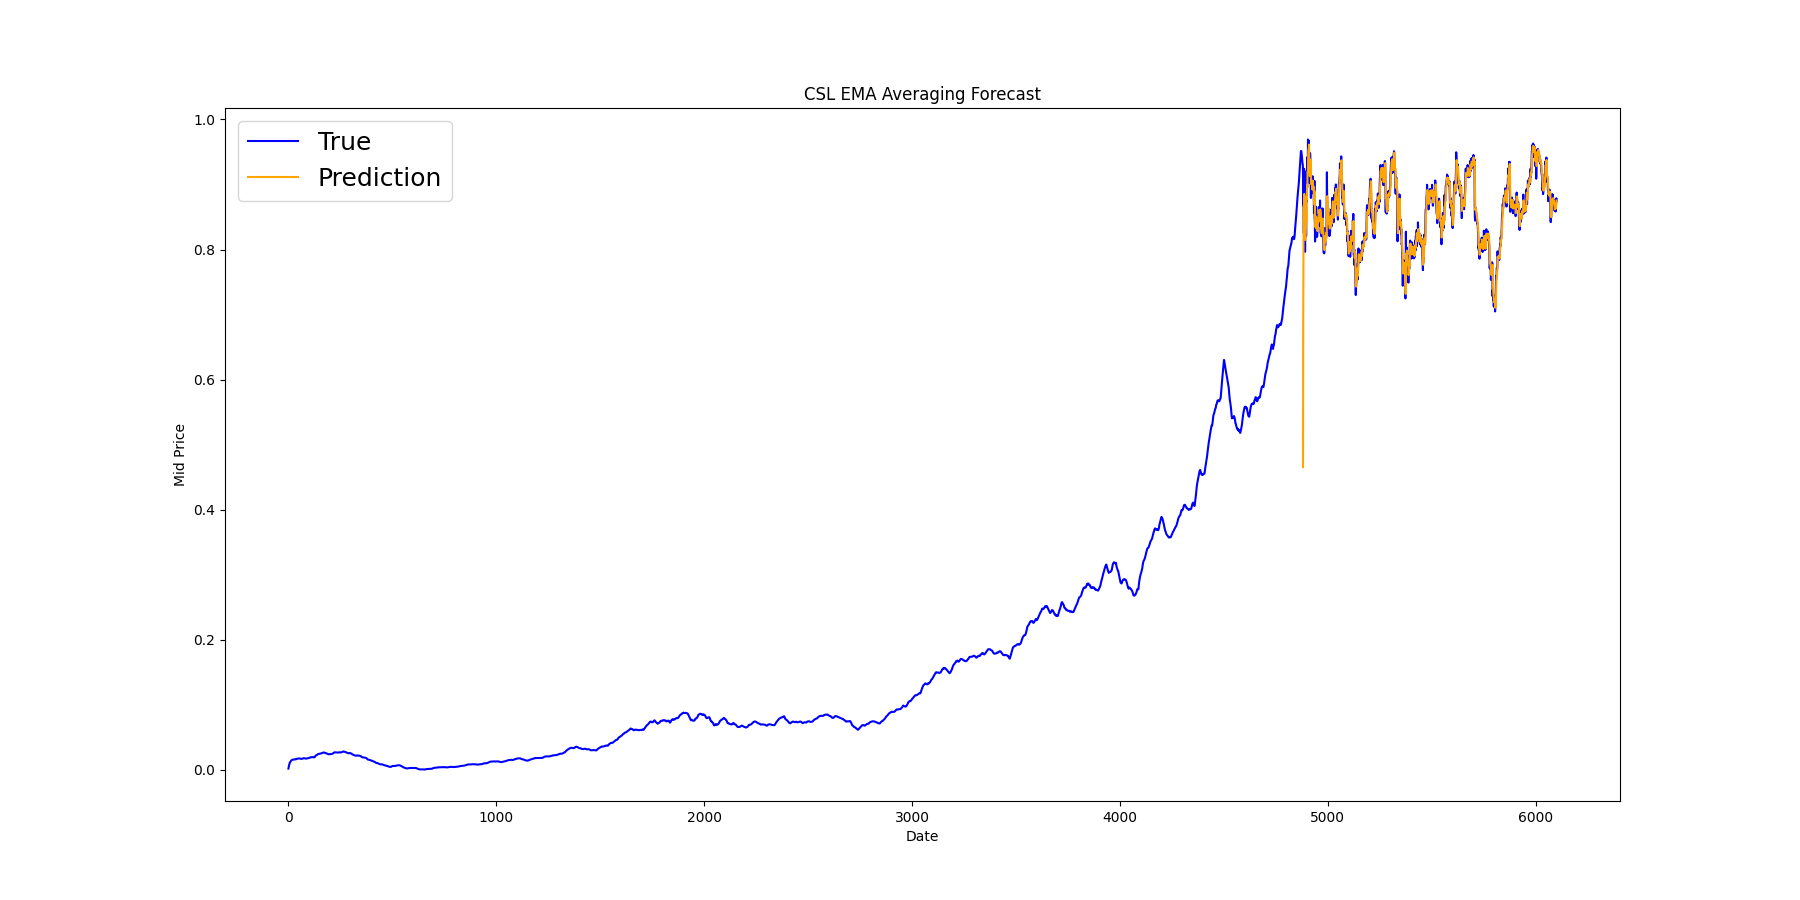
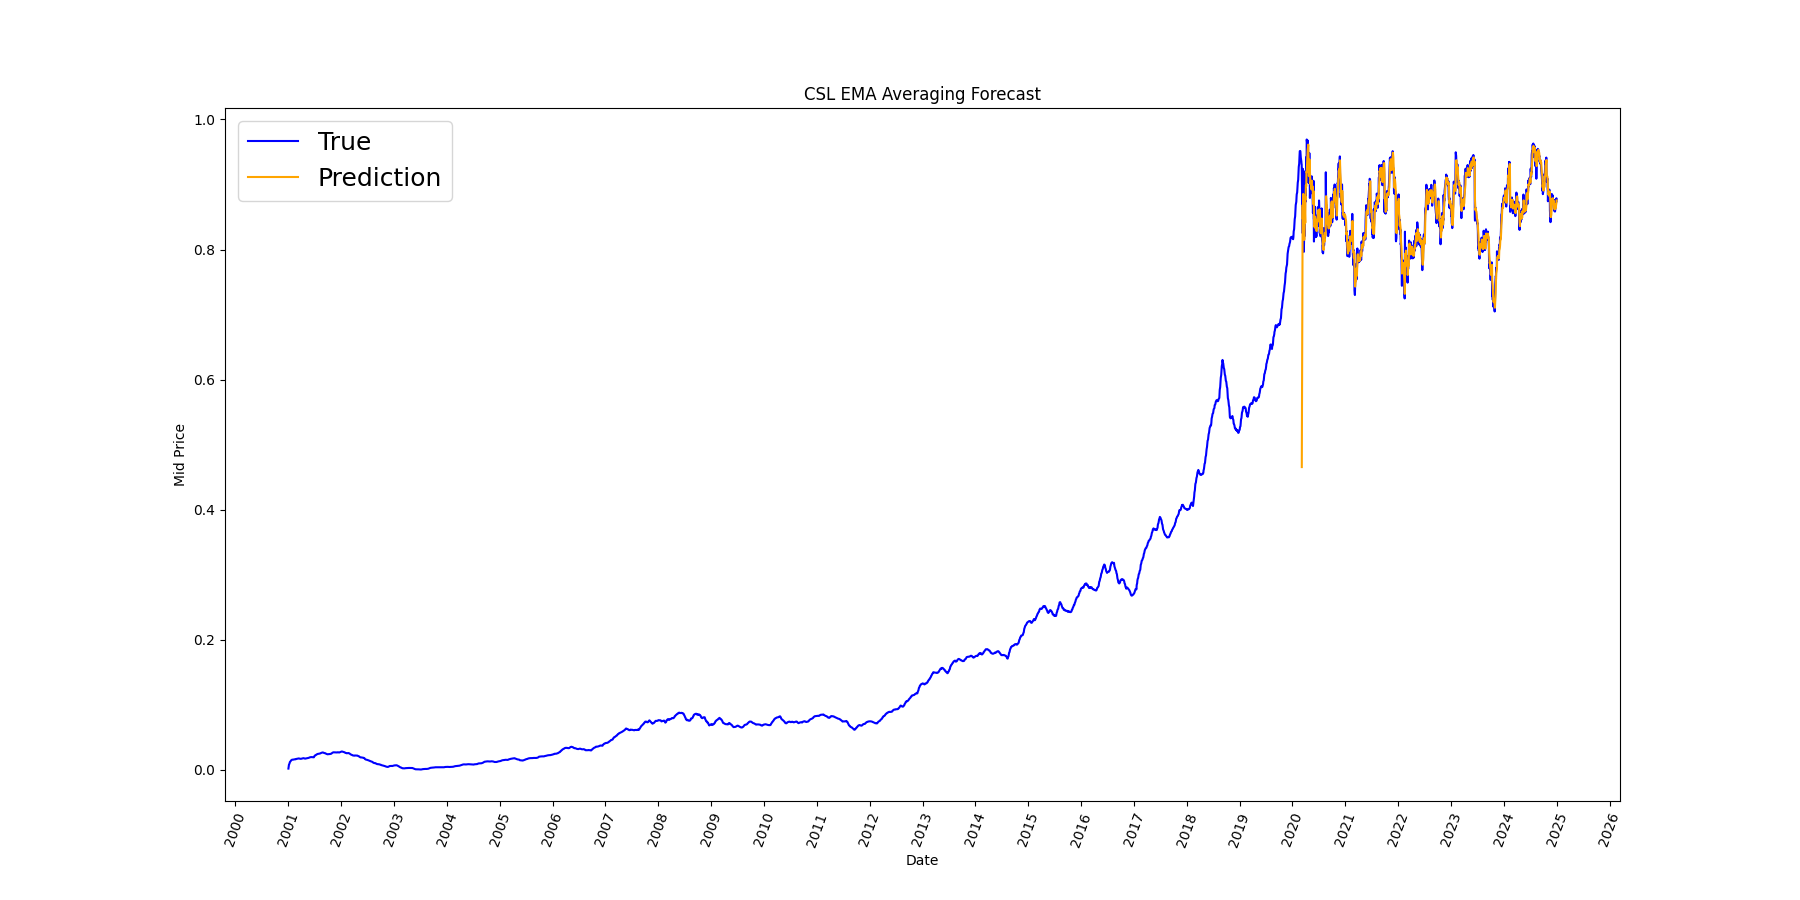
standardised plots

diff --git a/lstm.py b/lstm.py
@@ -5,9 +5,9 @@ import urllib.request, json
 import os
 from pathlib import Path
 import numpy as np
-import tensorflow as tf
+import matplotlib.dates as mdates
 from sklearn.preprocessing import MinMaxScaler
-from sklearn.metrics import root_mean_squared_error, r2_score, mean_absolute_percentage_error, mean_absolute_error
+from sklearn.metrics import r2_score, mean_absolute_percentage_error, mean_absolute_error
 
 def create_output_folder(file_name, ticker):
     dir_name = f"PDAOutput/PDA_{ticker}"
@@ -82,10 +82,16 @@ def main():
         print(f'{ticker} MAPE error for EMA averaging: {mape}')
         print(f'{ticker} R^2 score for EMA averaging: {r2}')
 
+        test_set = df[train_size:]
+
+
         plt.figure(figsize=(18,9))
         plt.title(f"{ticker} EMA Averaging Forecast")
-        plt.plot(range(df.shape[0]), all_close_data, color='b', label='True')
-        plt.plot(range(train_size, N), run_avg_predictions, color='orange', label='Prediction')
+        plt.plot(df['Date'], all_close_data, color='b', label='True')
+        plt.plot(test_set['Date'], run_avg_predictions, color='orange', label='Prediction')
+        ax = plt.gca()
+        ax.xaxis.set_major_locator(mdates.YearLocator())
+        plt.xticks(rotation=70)
         plt.xlabel('Date')
         plt.ylabel('Mid Price')
         plt.legend(fontsize=18)
